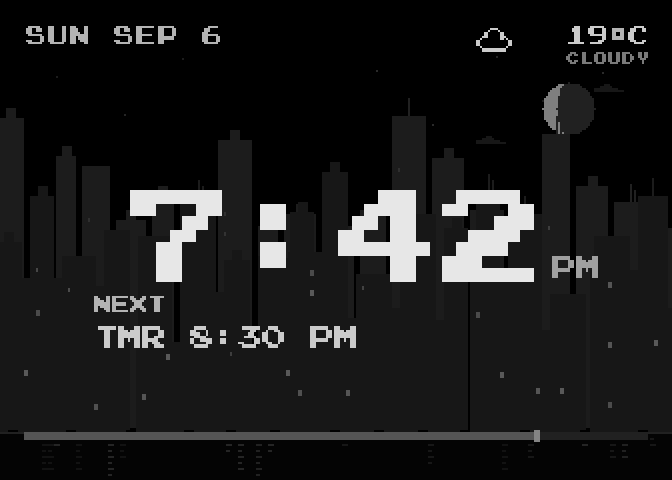
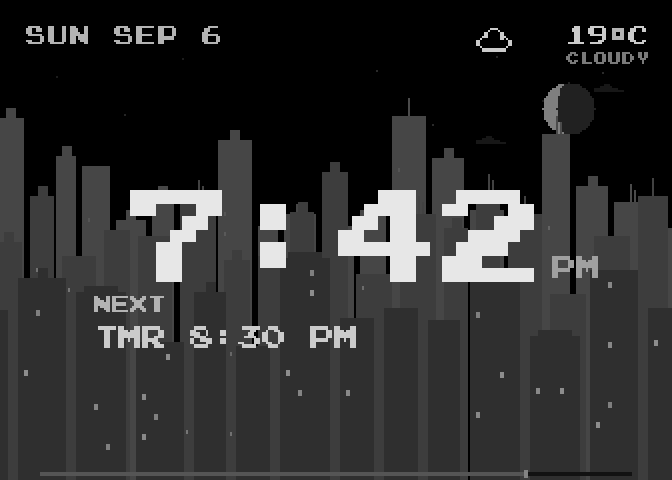
Refine skyline layout and stabilize CRT clock rendering

diff --git a/include/retro_scene.h b/include/retro_scene.h
@@ -603,9 +603,11 @@ RETRO_INLINE void burnInDrift(const SceneData& d, int& dx, int& dy) {
 template <typename G>
 RETRO_INLINE void drawBuilding(G& g, int x, int groundY, const Building& b,
                                uint8_t bodyLum, uint8_t windowLum,
-                               uint32_t flickerBucket, bool sparseWindows) {
+                               uint32_t flickerBucket, bool sparseWindows,
+                               bool extendToBottom) {
     const int y = groundY - b.height;
-    fill(g, x, y, b.width, b.height, bodyLum);
+    const int bodyHeight = extendToBottom ? (SCREEN_H - y) : b.height;
+    fill(g, x, y, b.width, bodyHeight, bodyLum);
 
     // A few very simple roof forms keep the skyline legible but cheap.
     if (b.roof == 0 && b.height > 78) {
@@ -618,7 +620,10 @@ RETRO_INLINE void drawBuilding(G& g, int x, int groundY, const Building& b,
     }
 
     const int cols = (b.width - 6) / 6;
-    const int rows = (b.height - 10) / 10;
+    // When a skyline layer extends to the bottom, continue the window grid
+    // through that lower facade too. Otherwise the extension reads like a
+    // featureless slab on the CRT.
+    const int rows = ((extendToBottom ? bodyHeight : b.height) - 10) / 10;
     const int threshold = sparseWindows ? 9 : 13;
 
     int slot = 0;
@@ -646,14 +651,15 @@ template <typename G, int N>
 RETRO_INLINE void drawSkylineLayer(G& g, const Building (&buildings)[N], int period,
                                     int groundY, int scrollPx, int gap,
                                     uint8_t bodyLum, uint8_t windowLum,
-                                    uint32_t flickerBucket, bool sparseWindows) {
+                                    uint32_t flickerBucket, bool sparseWindows,
+                                    bool extendToBottom) {
     if (period <= 0) return;
     const int offset = scrollPx % period;
     for (int repeat = 0; repeat < 3; ++repeat) {
         int x = repeat * period - offset - period;
         for (int i = 0; i < N; ++i) {
             drawBuilding(g, x, groundY, buildings[i], bodyLum, windowLum,
-                         flickerBucket, sparseWindows);
+                         flickerBucket, sparseWindows, extendToBottom);
             x += buildings[i].width + gap;
         }
     }
@@ -678,29 +684,6 @@ RETRO_INLINE void drawStars(G& g, uint32_t frameMs, uint8_t bgPct, uint8_t night
         const uint8_t base = (uint8_t)(7 + ((h >> 4) & 3U));
         const uint8_t lum = dimForNight(scaleLuma(base, bgPct), night, nightPct);
         if (lum) pixel(g, xs[i], ys[i], lum);
-    }
-}
-
-template <typename G>
-RETRO_INLINE void drawWater(G& g, uint32_t frameMs, uint8_t bgPct, uint8_t night, uint8_t nightPct) {
-    const int top = 216;
-    const uint8_t water = dimForNight(scaleLuma(1, bgPct), night, nightPct);
-    const uint8_t horizon = dimForNight(scaleLuma(8, bgPct), night, nightPct);
-    if (water) fill(g, 0, top, SCREEN_W, SCREEN_H - top, water);
-    if (horizon) fill(g, 0, top, SCREEN_W, 1, horizon);
-
-    const uint32_t phase = frameMs / 700U;
-    for (int i = 0; i < 18; ++i) {
-        const uint32_t h = mix32(0xA341316CU ^ (uint32_t)i * 2654435761U);
-        const int x = 8 + (int)((h + phase * (1U + (h & 1U))) % 320U);
-        const int height = 4 + (int)((h >> 8) % 17U);
-        const uint8_t base = (uint8_t)(4 + ((h >> 16) & 5U));
-        const uint8_t lum = dimForNight(scaleLuma(base, bgPct), night, nightPct);
-        if (!lum) continue;
-        for (int yy = 0; yy < height; yy += 3) {
-            const int wobble = ((int)((phase + yy + i) % 3U)) - 1;
-            fill(g, x + wobble, top + 3 + yy, 2 + (yy & 1), 1, lum);
-        }
     }
 }
 
@@ -737,17 +720,22 @@ RETRO_INLINE void drawSkyline(G& g, const SceneData& d, const SceneCache& cache)
     const int midScroll = (int)(animMs / 1550U);
     const int nearScroll = (int)(animMs / 900U);
 
+    // V3.9.3: give the real CRT substantially more skyline headroom.
+    // Around 50% now lands near the old 100% city-body brightness, while
+    // 100% remains safely below the hero clock luminance.
     drawSkylineLayer(g, cache.farBuildings, cache.farPeriod, 214, farScroll, 3,
-                     dimForNight(scaleLuma((uint8_t)(6 + dayLift), bgPct), night, d.nightBrightnessPct),
-                     dimForNight(scaleLuma(11, bgPct), night, d.nightBrightnessPct), flickerBucket, true);
+                     dimForNight(scaleLuma((uint8_t)(16 + dayLift), bgPct), night, d.nightBrightnessPct),
+                     dimForNight(scaleLuma(20, bgPct), night, d.nightBrightnessPct), flickerBucket, true, true);
     drawSkylineLayer(g, cache.midBuildings, cache.midPeriod, 215, midScroll, 4,
-                     dimForNight(scaleLuma((uint8_t)(5 + dayLift), bgPct), night, d.nightBrightnessPct),
-                     dimForNight(scaleLuma(14, bgPct), night, d.nightBrightnessPct), flickerBucket, true);
+                     dimForNight(scaleLuma((uint8_t)(13 + dayLift), bgPct), night, d.nightBrightnessPct),
+                     dimForNight(scaleLuma(24, bgPct), night, d.nightBrightnessPct), flickerBucket, true, true);
+    // All skyline layers continue to the physical bottom edge. Windows also
+    // continue through the lower facades, so gaps between foreground towers
+    // retain depth instead of revealing a flat dark strip.
     drawSkylineLayer(g, cache.nearBuildings, cache.nearPeriod, 216, nearScroll, 5,
-                     dimForNight(scaleLuma((uint8_t)(4 + dayLift), bgPct), night, d.nightBrightnessPct),
-                     dimForNight(scaleLuma(18, bgPct), night, d.nightBrightnessPct), flickerBucket, false);
+                     dimForNight(scaleLuma((uint8_t)(10 + dayLift), bgPct), night, d.nightBrightnessPct),
+                     dimForNight(scaleLuma(30, bgPct), night, d.nightBrightnessPct), flickerBucket, false, true);
 
-    drawWater(g, animMs, bgPct, night, d.nightBrightnessPct);
 }template <typename G>
 RETRO_INLINE void drawMoonCached(G& g, int cx, int cy, const MoonCache& moon, uint8_t c) {
     for (int i = 0; i < MOON_RADIUS * 2 + 1; ++i) {
@@ -763,16 +751,17 @@ RETRO_INLINE void drawMoonCached(G& g, int cx, int cy, const MoonCache& moon, ui
 
 template <typename G>
 RETRO_INLINE void drawDayHorizon(G& g, uint32_t secondsToday) {
-    const int x = SAFE_LEFT;
-    const int y = 216;
-    const int w = SAFE_RIGHT - SAFE_LEFT;
+    // Keep the day indicator at the very bottom of the raster so it reads as
+    // a small HUD element rather than a horizon/separator through the city.
+    const int x = SAFE_LEFT + 8;
+    const int y = SCREEN_H - 4;
+    const int w = (SAFE_RIGHT - SAFE_LEFT) - 16;
     int progress = (int)(((uint64_t)secondsToday * (uint64_t)w) / 86400ULL);
     progress = clampInt(progress, 0, w);
 
-    // A thicker integrated horizon line reads better on the CRT.
-    fill(g, x, y, w, 4, 7);
-    fill(g, x, y, progress, 4, 18);
-    if (progress > 0) fill(g, x + progress - 1, y - 1, 3, 6, 28);
+    fill(g, x, y, w, 2, 4);
+    if (progress > 0) fill(g, x, y, progress, 2, 18);
+    if (progress > 0) fill(g, x + progress - 1, y - 1, 2, 4, 28);
 }
 
 template <typename G>

diff --git a/include/web_ui.h b/include/web_ui.h
@@ -31,7 +31,7 @@ static const char WEB_UI_HTML[] PROGMEM = R"HTML(
 <div class="field"><label for="time_format">Time format</label><select id="time_format" name="time_format"><option value="12">12-hour</option><option value="24">24-hour</option></select></div>
 <div class="field"><label for="temperature_unit">Temperature</label><select id="temperature_unit" name="temperature_unit"><option value="C">Celsius</option><option value="F">Fahrenheit</option></select></div>
 <div class="checks"><label class="check"><input id="weather_text" name="weather_text" type="checkbox"> Weather descriptor</label><label class="check"><input id="day_bar" name="day_bar" type="checkbox"> Day progress bar</label></div>
-<div class="buttons"><button class="primary" type="submit">Save settings</button><button id="previewBtn" type="button">Preview for 60 sec</button><button id="revertBtn" type="button">Revert preview</button></div>
+<div class="buttons"><button class="primary" type="submit">Save settings</button><button id="previewBtn" type="button">Preview for 60 sec</button><button id="revertBtn" type="button">Revert preview</button><button id="defaultsBtn" class="danger" type="button">Restore defaults</button></div>
 <div class="msg" id="settingsMsg" aria-live="polite"></div>
 </section>
 </form>
@@ -56,6 +56,7 @@ async function loadStatus(){try{const r=await fetch('/api/status',{cache:'no-sto
 $('settingsForm').addEventListener('submit',async e=>{e.preventDefault();try{const j=await post('/api/save',formBody(false));msg('settingsMsg',j.message||'Saved');await loadSettings();await loadStatus()}catch(e){msg('settingsMsg',e.message)}});
 $('previewBtn').addEventListener('click',async()=>{try{const j=await post('/api/preview',formBody(true));msg('settingsMsg',j.message||'Preview active for 60 seconds');await loadSettings()}catch(e){msg('settingsMsg',e.message)}});
 $('revertBtn').addEventListener('click',async()=>{try{const j=await post('/api/revert','');msg('settingsMsg',j.message||'Preview reverted');await loadSettings()}catch(e){msg('settingsMsg',e.message)}});
+$('defaultsBtn').addEventListener('click',async()=>{if(!confirm('Restore all clock settings to firmware defaults? WiFi credentials will be kept.'))return;try{const j=await post('/api/defaults','');msg('settingsMsg',j.message||'Defaults restored');await loadSettings();await loadStatus()}catch(e){msg('settingsMsg',e.message)}});
 $('refreshStatusBtn').addEventListener('click',loadStatus);
 $('refreshDataBtn').addEventListener('click',async()=>{try{const j=await post('/api/refresh','');msg('actionMsg',j.message||'Refresh queued')}catch(e){msg('actionMsg',e.message)}});
 $('diagBtn').addEventListener('click',async()=>{try{const j=await post('/api/diagnostics','');msg('actionMsg',j.message||'Diagnostics toggled')}catch(e){msg('actionMsg',e.message)}});

diff --git a/src/main.cpp b/src/main.cpp
@@ -35,7 +35,7 @@ static constexpr uint32_t HEALTH_LOG_INTERVAL_MS = 5UL * 60UL * 1000UL;
 
 static constexpr int BRIDGE_API_VERSION = 3;
 static constexpr int SETTINGS_VERSION = 1;
-static constexpr const char* FIRMWARE_VERSION = "3.9.2";
+static constexpr const char* FIRMWARE_VERSION = "3.9.6";
 static constexpr const char* DEFAULT_BRIDGE_URL =
     "http://crt-clock-bridge.ultramagnus.ca/status";
 
@@ -430,6 +430,21 @@ static void handleApiRevert() {
     sendApiMessage(true, "Preview reverted to saved settings.");
 }
 
+static void handleApiDefaults() {
+    settings = ClockSettings();
+    clampSettings(settings);
+    savedSettings = settings;
+    persistSettings(settings);
+    copySettingsToRuntime();
+    applySettingsToScene();
+    previewActive = false;
+    previewExpiresAt = 0;
+    applyTimezoneLive();
+    forceBridgeRefresh = true;
+    renderFrame();
+    sendApiMessage(true, "Factory clock settings restored. WiFi credentials were kept.");
+}
+
 static void handleApiSave() {
     ClockSettings next = settings;
     parseDisplaySettings(next);
@@ -509,6 +524,7 @@ static void startConfigWebServer() {
     configServer.on("/api/status", HTTP_GET, handleApiStatus);
     configServer.on("/api/preview", HTTP_POST, handleApiPreview);
     configServer.on("/api/revert", HTTP_POST, handleApiRevert);
+    configServer.on("/api/defaults", HTTP_POST, handleApiDefaults);
     configServer.on("/api/save", HTTP_POST, handleApiSave);
     configServer.on("/api/refresh", HTTP_POST, handleApiRefresh);
     configServer.on("/api/diagnostics", HTTP_POST, handleApiDiagnostics);

diff --git a/CHANGELOG.md b/CHANGELOG.md
@@ -1,3 +1,30 @@
+# V3.9.6 - Full-depth city base
+
+- Extends far, mid, and near skyline layers to the bottom edge.
+- Continues window lights through the lower extended facades.
+- Moves the day-progress indicator to a thin bottom-edge HUD treatment so it no longer reads as a separator through the skyline.
+- Keeps V3.9.2+ video-stability work and V3.9.3+ brightness controls unchanged.
+
+# V3.9.5 - Buildings to bottom
+
+- Extended the foreground skyline silhouettes to the bottom edge of the CRT frame.
+- Preserved the far and mid skyline layers for depth/parallax.
+- The day-progress bar remains overlaid on top of the foreground buildings.
+
+# V3.9.4 - Remove water reflections
+
+- Removed the animated water/reflection effect from the bottom of the city scene.
+- The lower raster is now clean/black beneath the skyline, with the day-progress bar remaining as the visual horizon.
+- No changes to video timing, web controls, or the V3.9.2 stability work.
+
+# V3.9.3 - Brighter skyline + restore defaults
+
+- Increased the three skyline body luminance levels substantially for real-CRT visibility.
+- Increased city-window luminance with the skyline while keeping the main clock brighter.
+- The Background brightness slider remains 0-100%; roughly 50% now approximates the old maximum city-body brightness, leaving useful headroom up to 100%.
+- Added **Restore defaults** to the web UI. It resets clock/network-display settings to firmware defaults, persists them immediately, reapplies the timezone/scene, and queues a bridge refresh.
+- Restore defaults intentionally keeps WiFi credentials. WiFi reset remains on the physical GPIO4 long-press flow.
+
 # V3.9.2 video isolation diagnostics
 
 - Added three 30-second video isolation tests to separate rendering load from framebuffer handoff behavior.

diff --git a/DESIGN.md b/DESIGN.md
@@ -63,3 +63,23 @@ All background luminance values are deliberately below foreground text luminance
 ## Video timing isolation strategy (V3.9.2)
 
 Because a static displayed framebuffer was observed to remain vertically stable while normal updates jittered, diagnosis now separates three operations: scanout only, backbuffer rendering only, and framebuffer swaps only. The render-only and swap-only tests use a frozen `SceneData` snapshot to avoid time/animation differences and pause unrelated periodic network/diagnostic work. This keeps the experiment useful on real analog hardware and avoids prematurely changing ISR priority or the composite generator itself.
+
+
+## V3.9.3 skyline luminance
+
+The real CRT required substantially more low-end luma than the desktop preview suggested. Skyline body/window base luminance was raised while preserving the 0-100% Background brightness control. This keeps the clock dominant while giving the physical CRT enough range to make the city clearly visible.
+
+
+## V3.9.4 lower scene cleanup
+
+The animated water/reflection treatment was removed because it did not read clearly on the physical CRT. The skyline terminates against a clean dark lower field, while the day-progress bar remains at the former horizon line.
+
+
+## V3.9.5 lower skyline
+
+Only the foreground skyline is extended to the bottom edge. The far and mid layers retain their original ground lines so the scene keeps its layered depth. The day-progress bar is drawn afterward and therefore remains readable over the foreground buildings.
+
+
+## V3.9.6 city base
+
+All three parallax skyline layers now continue to the physical bottom edge, with window lights continuing through their lower facades. The day-progress indicator is moved to the bottom edge so it no longer visually divides the city.

diff --git a/WEB_UI.md b/WEB_UI.md
@@ -9,6 +9,7 @@ Open `http://<clock-ip>/` after the clock has completed normal startup. The exac
 - `GET /api/status` - current clock/network/heap status
 - `POST /api/preview` - temporarily apply display settings for 60 seconds
 - `POST /api/revert` - restore saved settings
+- `POST /api/defaults` - restore firmware defaults while keeping WiFi credentials
 - `POST /api/save` - validate, persist, and apply settings
 - `POST /api/refresh` - queue a bridge refresh
 - `POST /api/diagnostics` - toggle the CRT diagnostic screen
@@ -57,3 +58,10 @@ If the CRT still jumps during the 30-second freeze, the issue is below the scene
 The Status card includes **Freeze 30 sec**, **Render-only 30 sec**, and **Swap-only 30 sec**. These tests are intentionally non-persistent diagnostics. They do not modify saved display settings.
 
 The `/api/video-test` POST endpoint accepts `mode=freeze`, `mode=render`, or `mode=swap`. The older `/api/video-freeze` endpoint remains as a compatibility alias for the freeze test. `/api/status` reports `video_test`, `video_test_active`, `video_test_remaining_sec`, and `video_test_steps`.
+
+
+## V3.9.3 controls
+
+The Display card now includes **Restore defaults**. The action requires browser confirmation, persists the firmware defaults immediately, and does not erase WiFiManager credentials.
+
+The skyline luminance curve was also raised substantially. The Background brightness slider is still 0-100%, but the new 50% setting is intentionally in the neighborhood of the previous 100% skyline-body brightness, leaving much more useful CRT headroom.

diff --git a/README.md b/README.md
@@ -213,3 +213,24 @@ Interpretation:
 - All three stable + normal mode jitters -> investigate dynamic scene preparation, clock/system calls, bridge/web activity, or interaction between rendering and swapping.
 
 V3.9.2 also moves WiFi/RSSI/heap diagnostic queries out of `renderFrame()` and caches those values every five seconds during normal operation.
+
+
+## V3.9.3
+
+- Brighter skyline range for CRTs where the city was barely visible at the former 100% setting.
+- Web UI **Restore defaults** action. It restores firmware clock settings but deliberately leaves WiFi credentials intact.
+
+
+## V3.9.4
+
+Removed the animated water reflections from the bottom of the CRT scene. The day-progress bar now provides the only horizon treatment, which reads more cleanly on the physical display.
+
+
+## V3.9.5
+
+The foreground skyline now extends to the bottom edge of the frame, removing the empty lower strip while keeping the day-progress bar overlaid on top.
+
+
+## V3.9.6 city base
+
+All three parallax skyline layers now continue to the physical bottom edge, with window lights continuing through their lower facades. The day-progress indicator is moved to the bottom edge so it no longer visually divides the city.
